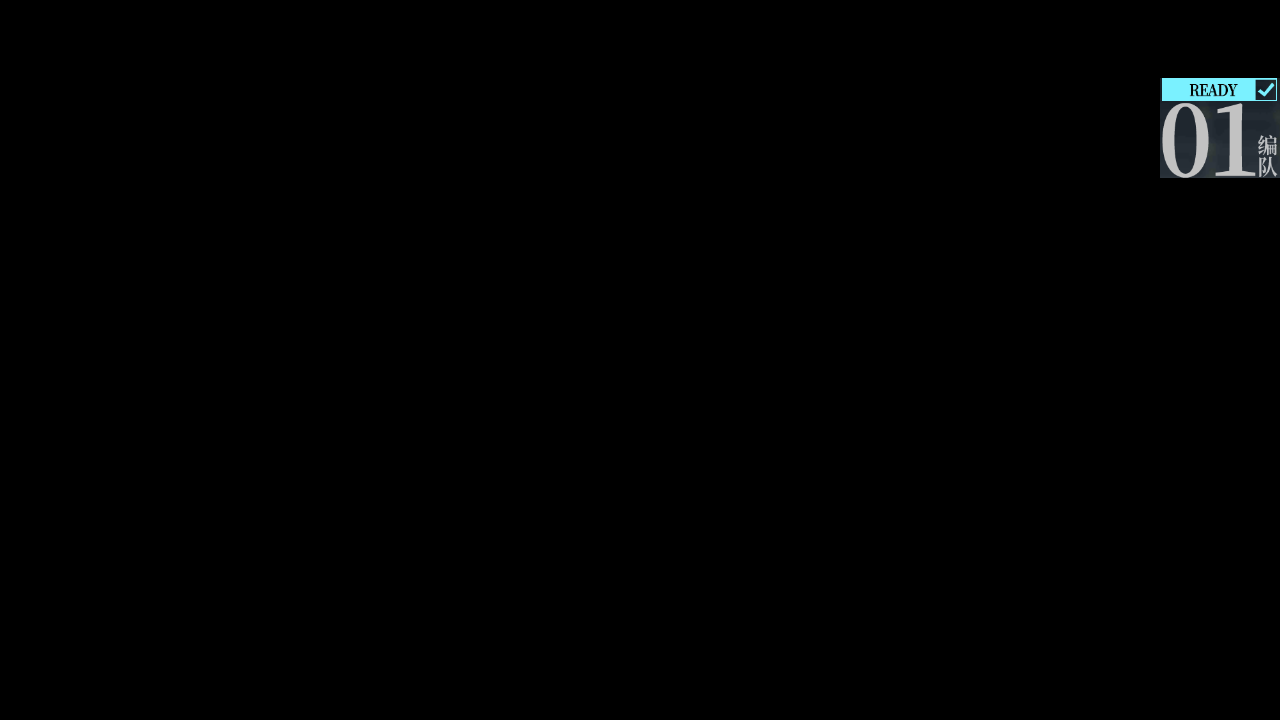
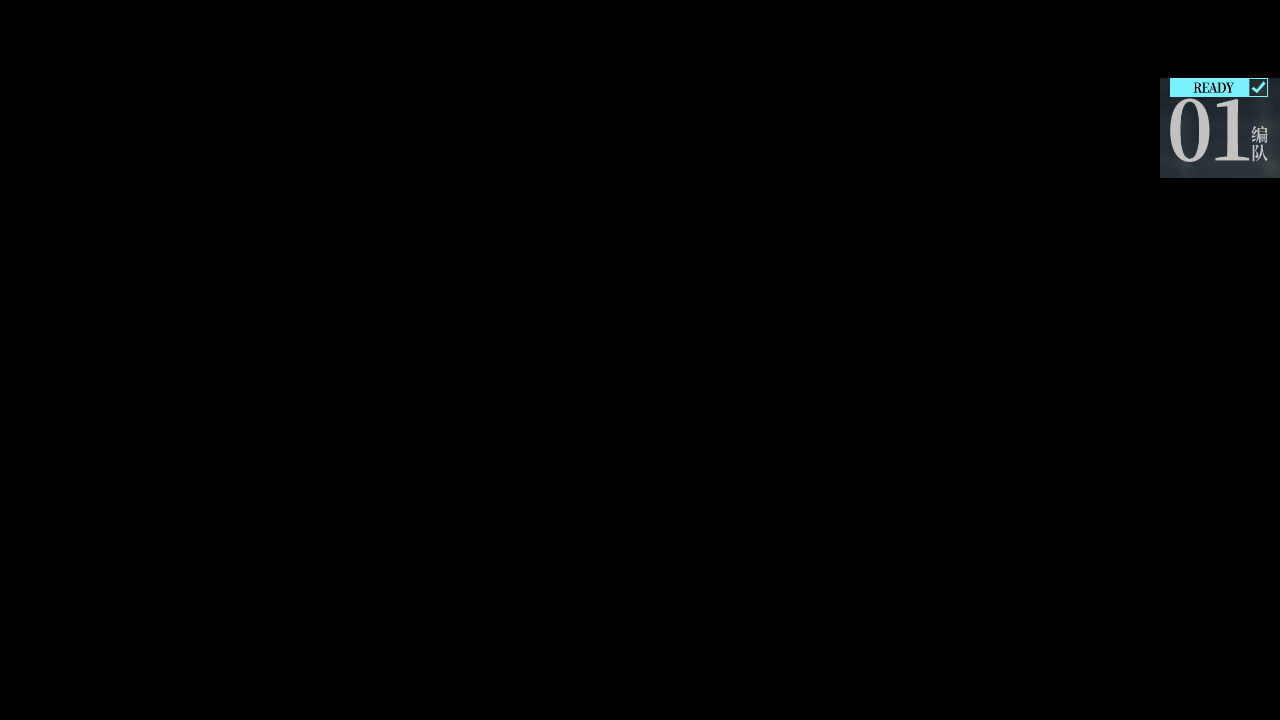
[fix] game upgrade ui changed

Changed region(s): [[0.9062, 0.0917, 1.0, 0.2444]]

diff --git a/tasks/base/assets/assets_base_page.py b/tasks/base/assets/assets_base_page.py
@@ -639,18 +639,32 @@ EXERCISE_BUTTON=ButtonWrapper(
 
 CONTINUOUS_CHALLENGE_BUTTON=ButtonWrapper(
     name='CONTINUOUS_CHALLENGE_BUTTON',
-    share=Button.default_init(
+    share=[Button.default_init(
+        file='./assets/share/attack/exercise/CONTINUOUS_CHALLENGE_LEGACY.png',
+        area=(431,466,578,500),
+        color=(0,137,227)
+    ),
+    Button.default_init(
+        area=(481,467,575,496),color=(77,122,163),
         file='./assets/share/attack/exercise/CONTINUOUS_CHALLENGE.png',
-        area=(431,466,578,500),
-        color=(0,137,227)
+        button=(430,462,582,502)
     )
+    ]
 )
-CONTINUOUS_CHALLENGE_ON_BUTTON=ButtonWrapper(
-    name='CONTINUOUS_CHALLENGE_ON_BUTTON',
+# CONTINUOUS_CHALLENGE_ON_BUTTON=ButtonWrapper(
+#     name='CONTINUOUS_CHALLENGE_ON_BUTTON',
+#     share=[Button.default_init(
+#         file='./assets/share/attack/exercise/CONTINUOUS_CHALLENGE_ON_LEGACY.png',
+#         area=(431,466,578,500),
+#         color=(0,137,227)
+#     )]
+# )
+CONTINUOUS_CHALLENGE_CANCEL=ButtonWrapper(
+    name='CONTINUOUS_CHALLENGE_CANCEL',
     share=Button.default_init(
-        file='./assets/share/attack/exercise/CONTINUOUS_CHALLENGE_ON.png',
-        area=(431,466,578,500),
-        color=(0,137,227)
+        area=(1089,680,1140,705),color=(138,73,73),
+        file='./assets/share/attack/exercise/CONTINUOUS_CHALLENGE_CANCEL.png',
+        button=(1002,673,1155,711)
     )
 )
 EXERCISE_ALL_BUTTON=ButtonWrapper(
@@ -671,11 +685,15 @@ EXERCISE_ALL_CHECKBOX=ButtonWrapper(
 )
 EXERCISE_START_HOSTING=ButtonWrapper(
     name='EXERCISE_START_HOSTING',
-    share=Button.default_init(
-        file='./assets/share/attack/exercise/EXERCISE_START_HOSTING.png',
+    share=[Button.default_init(
+        file='./assets/share/attack/exercise/EXERCISE_START_HOSTING_LEGACY.png',
         area=(833,676,980,708),
         color=(96,249,181)
-    )
+    ),Button.default_init(
+        area=(880,679,977,703),color=(77,144,120),
+        file='./assets/share/attack/exercise/EXERCISE_START_HOSTING.png',
+        button=(829,673,983,711)
+    )]
 )
 EXERCISE_REMAIN_COUNT_DATA=ButtonWrapper(
     name='EXERCISE_REMAIN_COUNT_DATA',
@@ -686,11 +704,16 @@ EXERCISE_REMAIN_COUNT_DATA=ButtonWrapper(
 )
 CHANGE_OPPONENT=ButtonWrapper(
     name='CHANGE_OPPONENT',
-    share=Button.default_init(
-        file='./assets/share/attack/exercise/CHANGE_OPPONENT.png',
+    share=[Button.default_init(
+        file='./assets/share/attack/exercise/CHANGE_OPPONENT_LEGACY.png',
         area=(618,466,756,501),
         color=(105,211,211)
+    ),
+    Button.default_init(
+        area=(664,469,756,495),color=(79,146,121),
+        file='./assets/share/attack/exercise/CHANGE_OPPONENT.png'
     )
+    ]
 )
 NAVAL_PORT_PAGE=ButtonWrapper(
     name='NAVAL_PORT_PAGE',
@@ -899,45 +922,63 @@ ARENA_OPPOSITE_COURSE=ButtonWrapper(
 )
 ARENA_MIDDLE_CLASS=ButtonWrapper(
     name='ARENA_MIDDLE_CLASS',
-    share=Button.default_init(
+    share=[Button.default_init(
         area=(1184,208,1280,295),color=(64,77,79),
+        file='./assets/share/attack/competition/ARENA_MIDDLE_CLASS_LEGACY.png'
+    ),Button.default_init(
+        area=(1183,188,1279,258),color=(60,73,78),
         file='./assets/share/attack/competition/ARENA_MIDDLE_CLASS.png'
-    )
+    )]
 )
 ARENA_LARGE_CLASS=ButtonWrapper(
     name='ARENA_LARGE_CLASS',
-    share=Button.default_init(
+    share=[Button.default_init(
         area=(1184,315,1280,402),color=(68,81,79),
+        file='./assets/share/attack/competition/ARENA_LARGE_CLASS_LEGACY.png'
+    ),Button.default_init(
+        area=(1184,281,1280,351),color=(61,73,74),
         file='./assets/share/attack/competition/ARENA_LARGE_CLASS.png'
-    )
+    )]
 )
 ARENA_SMALL_CLASS=ButtonWrapper(
     name='ARENA_SMALL_CLASS',
-    share=Button.default_init(
+    share=[Button.default_init(
         area=(1184,101,1280,182),color=(55,68,75),
+        file='./assets/share/attack/competition/ARENA_SMALL_CLASS_LEGACY.png'
+    ),Button.default_init(
+        area=(1184,95,1280,164),color=(51,63,70),
         file='./assets/share/attack/competition/ARENA_SMALL_CLASS.png'
-    )
+    )]
 )
 ARENA_MIDDLE_CLASS_SELECTED=ButtonWrapper(
     name='ARENA_MIDDLE_CLASS_SELECTED',
-    share=Button.default_init(
+    share=[Button.default_init(
         area=(1160,186,1280,287),color=(98,123,128),
+        file='./assets/share/attack/competition/ARENA_MIDDLE_CLASS_SELECTED_LEGACY.png'
+    ),Button.default_init(
+        area=(1160,170,1280,271),color=(84,105,110),
         file='./assets/share/attack/competition/ARENA_MIDDLE_CLASS_SELECTED.png'
-    )
+    )]
 )
 ARENA_SMALL_CLASS_SELECTED=ButtonWrapper(
     name='ARENA_SMALL_CLASS_SELECTED',
-    share=Button.default_init(
+    share=[Button.default_init(
         area=(1160,78,1280,178),color=(89,114,120),
+        file='./assets/share/attack/competition/ARENA_SMALL_CLASS_SELECTED_LEGACY.png'
+    ),Button.default_init(
+        area=(1160,78,1280,178),color=(76,96,103),
         file='./assets/share/attack/competition/ARENA_SMALL_CLASS_SELECTED.png'
-    )
+    )]
 )
 ARENA_LARGE_CLASS_SELECTED=ButtonWrapper(
     name='ARENA_LARGE_CLASS_SELECTED',
-    share=Button.default_init(
+    share=[Button.default_init(
         area=(1160,295,1280,396),color=(99,124,126),
+        file='./assets/share/attack/competition/ARENA_LARGE_CLASS_SELECTED_LEGACY.png'
+    ),Button.default_init(
+        area=(1160,260,1280,361),color=(84,105,107),
         file='./assets/share/attack/competition/ARENA_LARGE_CLASS_SELECTED.png'
-    )
+    )]
 )
 ARENA_ADVANCE_POPUP=ButtonWrapper(
     name='ARENA_ADVANCE_POPUP',
@@ -1108,18 +1149,27 @@ DAILY_ARM_TRANSPORT_START2=ButtonWrapper(
 )
 DAILY_BATTLE_FIELD_BUTTON=ButtonWrapper(
     name='DAILY_BATTLE_FIELD_BUTTON',
-    share=Button.default_init(
+    share=[Button.default_init(
+        file='./assets/share/attack/daily_routine/BATTLE_FIELD_BUTTON_LEGACY.png',
+        area=(1195,567,1227,633),color=(202,151,113),
+    ),Button.default_init(
         file='./assets/share/attack/daily_routine/BATTLE_FIELD_BUTTON.png',
-        area=(1195,567,1227,633),color=(202,151,113)
+        area=(1195,567,1227,633),color=(216,165,127)
     )
+    ]
 )
 DAILY_BATTLE_FIELD_ACTIVE=ButtonWrapper(
     name='DAILY_BATTLE_FIELD_ACTIVE',
-    share=Button(
-        file='./assets/share/attack/daily_routine/BATTLE_FIELD_ACTIVE.png',
+    share=[Button(
+        file='./assets/share/attack/daily_routine/BATTLE_FIELD_ACTIVE_LEGACY.png',
         area=(1185,537,1226,648),color=(117,98,73),
         button=(1185,537,1226,648),search=(1180,532,1231,653)
+    ),Button(
+        file='./assets/share/attack/daily_routine/BATTLE_FIELD_ACTIVE.png',
+        area=(1185,537,1226,648),color=(136,119,94),
+        button=(1185,537,1226,648),search=(1180,532,1231,653)
     )
+    ]
 )
 DAILY_BATTLE_FIELD_START=ButtonWrapper(
     name='DAILY_BATTLE_FIELD_START',
@@ -2122,22 +2172,42 @@ SEASON_PASS_PAGE = ButtonWrapper(
 SEASON_PASS_DAILY1=ButtonWrapper(
     name='SEASON_PASS_DAILY1',
     share=Button.default_init(
-        area=(92,249,332,274),color=(212,212,212),
+        area=(95,249,280,331),color=(211,211,211),
         file='./assets/share/pass/SEASON_PASS_DAILY1.png'
+    )
+)
+SEASON_PASS_DAILY1_REFRESH=ButtonWrapper(
+    name='SEASON_PASS_DAILY1_REFRESH',
+    share=Button.default_init(
+        area=(313,244,345,263),color=(102,121,138),
+        file='./assets/share/pass/SEASON_PASS_DAILY1_REFRESH.png'
     )
 )
 SEASON_PASS_DAILY2=ButtonWrapper(
     name='SEASON_PASS_DAILY2',
     share=Button.default_init(
-        area=(92,406,332,430),color=(210,210,210),
+        area=(95,404,280,485),color=(222,222,222),
         file='./assets/share/pass/SEASON_PASS_DAILY2.png'
+    )
+)
+SEASON_PASS_DAILY2_REFRESH=ButtonWrapper(
+    name='SEASON_PASS_DAILY2_REFRESH',
+    share=Button.default_init(
+        area=(313,400,345,419),color=(104,123,140),
+        file='./assets/share/pass/SEASON_PASS_DAILY2_REFRESH.png'
     )
 )
 SEASON_PASS_DAILY3=ButtonWrapper(
     name='SEASON_PASS_DAILY3',
     share=Button.default_init(
-        area=(92,560,332,584),color=(208,208,208),
+        area=(95,560,280,641),color=(227,227,227),
         file='./assets/share/pass/SEASON_PASS_DAILY3.png'
+    )
+)
+SEASON_PASS_DAILY3_REFRESH=ButtonWrapper(
+    share=Button.default_init(
+        area=(313,554,345,575),color=(102,120,138),
+        file='./assets/share/pass/SEASON_PASS_DAILY3_REFRESH.png'
     )
 )
 SEASON_PASS_REMAIN=ButtonWrapper(
@@ -2159,5 +2229,12 @@ SEASON_PASS_SWITCH_TASK=ButtonWrapper(
     share=Button.default_init(
         area=(920,109,964,132),color=(105,105,105),
         file='./assets/share/pass/SEANSON_PASS_SWITCH_TASK.png'
+    )
+)
+SEASON_PASS_TASK_REFRESH=ButtonWrapper(
+    name='SEASON_PASS_TASK_REFRESH',
+    share=Button.default_init(
+        area=(494,101,589,122),color=(88,168,168),
+        file='./assets/share/pass/SEASON_PASS_TASK_REFRESH.png'
     )
 )

diff --git a/tasks/exercise/exercise.py b/tasks/exercise/exercise.py
@@ -5,7 +5,8 @@ from module.exception import GameStuckError, RequestHumanTakeover
 from tasks.base.ui import UI
 from module.logger import logger
 from tasks.base.page import page_main_line, page_exercise,page_season_pass
-from tasks.base.assets.assets_base_page import EXERCISE_PAGE,CONTINUOUS_CHALLENGE_BUTTON,CONTINUOUS_CHALLENGE_ON_BUTTON,EXERCISE_ALL_BUTTON,EXERCISE_ALL_CHECKBOX,EXERCISE_START_HOSTING,EXERCISE_REMAIN_COUNT_DATA,CHANGE_OPPONENT,CLICK_TO_CONTINUE, SEASON_PASS_DAILY1,SEASON_PASS_DAILY2,SEASON_PASS_DAILY3,SEASON_PASS_REMAIN,SEASON_PASS_DAILY_TASK,SEASON_PASS_SWITCH_TASK
+from tasks.base.assets.assets_base_page import (EXERCISE_PAGE,CONTINUOUS_CHALLENGE_BUTTON,CONTINUOUS_CHALLENGE_CANCEL,EXERCISE_ALL_BUTTON,EXERCISE_ALL_CHECKBOX,EXERCISE_START_HOSTING,EXERCISE_REMAIN_COUNT_DATA,CHANGE_OPPONENT,CLICK_TO_CONTINUE, SEASON_PASS_DAILY1,SEASON_PASS_DAILY2,SEASON_PASS_DAILY3,SEASON_PASS_REMAIN,SEASON_PASS_DAILY_TASK,SEASON_PASS_SWITCH_TASK,
+                                                SEASON_PASS_DAILY1_REFRESH,SEASON_PASS_DAILY2_REFRESH,SEASON_PASS_DAILY3_REFRESH, SEASON_PASS_TASK_REFRESH)
 from module.ocr.ocr import Ocr,DigitCounter
 from module.base.timer import Timer
 
@@ -64,18 +65,18 @@ class Exercise(UI):
     def check_should_refresh(self, btn: ButtonWrapper):
         ocr = Ocr(btn)
         for image in self.loop():
-            r = ocr.ocr_single_line(image)
+            r = ''.join([item.ocr_text for item in ocr.detect_and_ocr(image)])
             if r!= '':
-                return '演习' in r and r != '于演习出战'
+                return '演习' in r and r.strip() != '于演习出战'
 
     def check_season_pass(self) -> int:
         self.ui_ensure(page_season_pass)
         self.ui_click(SEASON_PASS_SWITCH_TASK,SEASON_PASS_DAILY_TASK)
-        ls = [SEASON_PASS_DAILY1,SEASON_PASS_DAILY2,SEASON_PASS_DAILY3]
-        refresh = [self.check_should_refresh(item) for item in ls]
-        if any(refresh):
-            logger.info('季票有任务需要手动刷新')
-            raise RequestHumanTakeover
+        ls = [(SEASON_PASS_DAILY1, SEASON_PASS_DAILY1_REFRESH),(SEASON_PASS_DAILY2, SEASON_PASS_DAILY2_REFRESH),(SEASON_PASS_DAILY3,SEASON_PASS_DAILY3_REFRESH)]
+        for (ocr,refresh_btn) in ls:
+            while self.check_should_refresh(ocr):
+                self.ui_click(SEASON_PASS_TASK_REFRESH, refresh_btn)
+                self.ui_click(refresh_btn, SEASON_PASS_TASK_REFRESH)
         ocr = Ocr(SEASON_PASS_REMAIN)
         for image in self.loop():
             remain = ocr.ocr_single_line(image)
@@ -99,7 +100,7 @@ class Exercise(UI):
         #至少测一次是否还能进行演习
         remain_count = self._get_remain_count()
         while remain_count > keep_time:
-            self.ui_click(CONTINUOUS_CHALLENGE_BUTTON, CONTINUOUS_CHALLENGE_ON_BUTTON)
+            self.ui_click(CONTINUOUS_CHALLENGE_BUTTON, CONTINUOUS_CHALLENGE_CANCEL)
             self.ui_click(EXERCISE_ALL_BUTTON, EXERCISE_ALL_CHECKBOX)
             self.start_hosting()
             remain_count = self._get_remain_count()
@@ -116,7 +117,7 @@ if __name__ == '__main__':
     task = Exercise('src', task='Exercise')
     import os
     path = os.path.dirname(__file__)
-    image_path = os.path.join(path,"test2.png")
+    image_path = os.path.join(path,"test6.png")
     task.image_file=image_path
-    b = task.appear(CHANGE_OPPONENT)
+    b = task.appear(CONTINUOUS_CHALLENGE_BUTTON)
     print(b)

diff --git a/tasks/mail/mail.py b/tasks/mail/mail.py
@@ -47,7 +47,9 @@ class Mail(UI):
     def run(self):
         self.ui_ensure(page_mail)
         self.device.screenshot()
-        self.ui_click(MAIL_WILL_EXPIRED_UNSELECTED, MAIL_WILL_EXPIRED_SELECTED, similarity=0.98)
+        logger.info('check selected')
+        self.ui_click(MAIL_WILL_EXPIRED_UNSELECTED, MAIL_WILL_EXPIRED_SELECTED)
+        logger.info('here')
         while 1:
             days = self.check_current_mail_remain_days()
             if days <= 1:
@@ -60,8 +62,8 @@ if __name__ == '__main__':
     task = Mail('fxc', task='Mail')
     import os
     path = os.path.dirname(__file__)
-    image_path = os.path.join(path,"test.png")
+    image_path = os.path.join(path,"test1.png")
     task.image_file=image_path
     b = task.appear(MAIL_WILL_EXPIRED_UNSELECTED)
     print(b)
-    print(MAIL_WILL_EXPIRED_UNSELECTED.button)
+    print(MAIL_WILL_EXPIRED_SELECTED.button)

diff --git a/tasks/daily_routine/daily_routine.py b/tasks/daily_routine/daily_routine.py
@@ -178,8 +178,8 @@ if __name__ == '__main__':
     task = DailyRoutine('src', task='QuizCenter')
     import os
     path = os.path.dirname(__file__)
-    image_path = os.path.join(path,"test7.png")
+    image_path = os.path.join(path,"test9.png")
     task.image_file=image_path
-    b = task.appear(GET_REWARD)
+    b = task.appear(DAILY_BATTLE_FIELD_BUTTON)
     print(b)
     

diff --git a/tasks/competition/competition.py b/tasks/competition/competition.py
@@ -156,7 +156,7 @@ if __name__ == '__main__':
     task = Competition('src', task='Exercise')
     import os
     path = os.path.dirname(__file__)
-    image_path = os.path.join(path,"test","test4.png")
+    image_path = os.path.join(path,"test","test7.png")
     task.image_file=image_path
     b = task.appear(ARENA_SMALL_CLASS_SELECTED)
     print(b)

diff --git a/module/base/button.py b/module/base/button.py
@@ -133,6 +133,7 @@ class Button(Resource):
 
         # self._button_offset = np.array(point) + self.search[:2] - self.area[:2]
         sim = self.match_template_sim(image, direct_match)
+        print(sim)
         return sim > similarity
 
     def match_template_luma(self, image, similarity=0.85, direct_match=False) -> bool:
